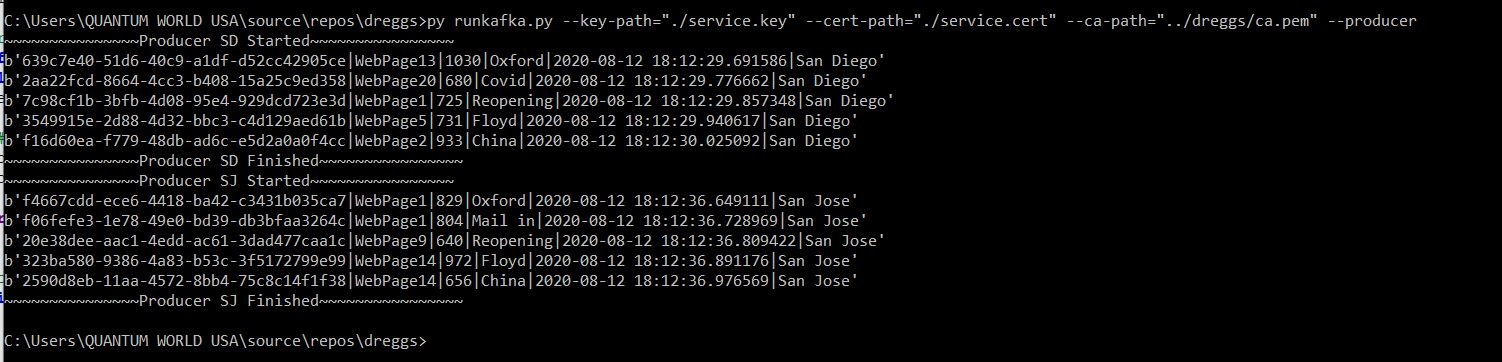
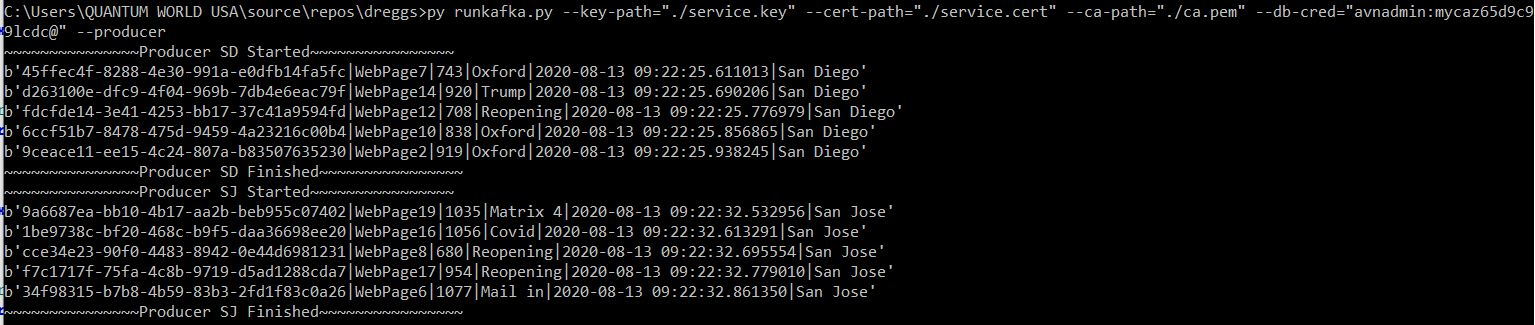
DB encryption Command line

Changed region(s): [[0.0, 0.0, 1.0, 0.9846]]

diff --git a/test/TestKafkatoDBStream.py b/test/TestKafkatoDBStream.py
@@ -4,31 +4,42 @@ import uuid
 from pykafka import KafkaClient, SslConfig
 import argparse
 from psycopg2.extras import RealDictCursor
+from psycopg2 import OperationalError
 import psycopg2
 from KapsProducerSanDiego import KapsProducerSanDiego
 from KapsProducerSanJose import KapsProducerSanJose
 from KapsConsumerWeb import KapsConsumerWeb
 from KapsConsumerMobile import KapsConsumerMobile
 from configparser import ConfigParser
+import sys 
 
 # from ConfigParser import ConfigParser  
 config_file = 'config.ini'
 configP = ConfigParser()
 configP.read(config_file)
-db_uri=configP['database']['postgresql_uri']
+try:
+    db_serv=configP['database']['postgresql_serv']
+except(KeyError) as e:
+    print("-->Test Kafka::Can't read db server info from config.ini<--");
+    sys.exit(1);
+db_uri="postgres://"+"avnadmin:mycaz65d9c99lcdc@"+db_serv
 service_uri=configP['kafka']['service_uri']  
 searchtxt=configP['testsearch']['sample'] #e.g.- like 'Tesla'
 
     
-db_conn = psycopg2.connect(db_uri)
+try:
+    db_conn = psycopg2.connect(db_uri)
+except (psycopg2.OperationalError) as e:
+    print("-->TestKafka2DB Consumer::Unable to connect to a PostgreSQL Server. Check the service_uri value in config.ini<--");
+    sys.exit(1);
 c = db_conn.cursor(cursor_factory=RealDictCursor)
-def TestKafkatoDBStream(ca_path, cert_path, key_path):
+def TestKafkatoDBStream(ca_path, cert_path, key_path, db_cred):
   
     #Running the two producers and two consumers in test mode
     KapsProducerSanJose(ca_path, cert_path, key_path,"test")
     KapsProducerSanDiego(ca_path, cert_path, key_path,"test")
-    KapsConsumerMobile(ca_path, cert_path, key_path);
-    KapsConsumerWeb(ca_path, cert_path, key_path);
+    KapsConsumerMobile(ca_path, cert_path, key_path, db_cred);
+    KapsConsumerWeb(ca_path, cert_path, key_path, db_cred);
     
     #Querying the number of fresh record created in the database should be 20. (5/producer X 2producer X 2consumer)
     c.execute("call testWebSearches("+searchtxt.replace("','",",")+",'')")

diff --git a/runkafka.py b/runkafka.py
@@ -38,9 +38,11 @@ def runkafka():
                             required=True)
     parser.add_argument('--cert-path', help="Path to the Kafka Certificate Key (obtained from Aiven Console)",
                             required=True)
+    parser.add_argument('--db-cred', required=True, help="Enter DB credential string here")
     parser.add_argument('--producer', action='store_true', default=False, help="Run Kafka producer simulator")
     parser.add_argument('--consumer', action='store_true', default=False, help="Run Kafka consumer simulator")
     parser.add_argument('--testrig', action='store_true', default=False, help="Run Kafka Test Rig, calls both consumer/producer")
+   
 
     args = parser.parse_args()
     validate_args(args)
